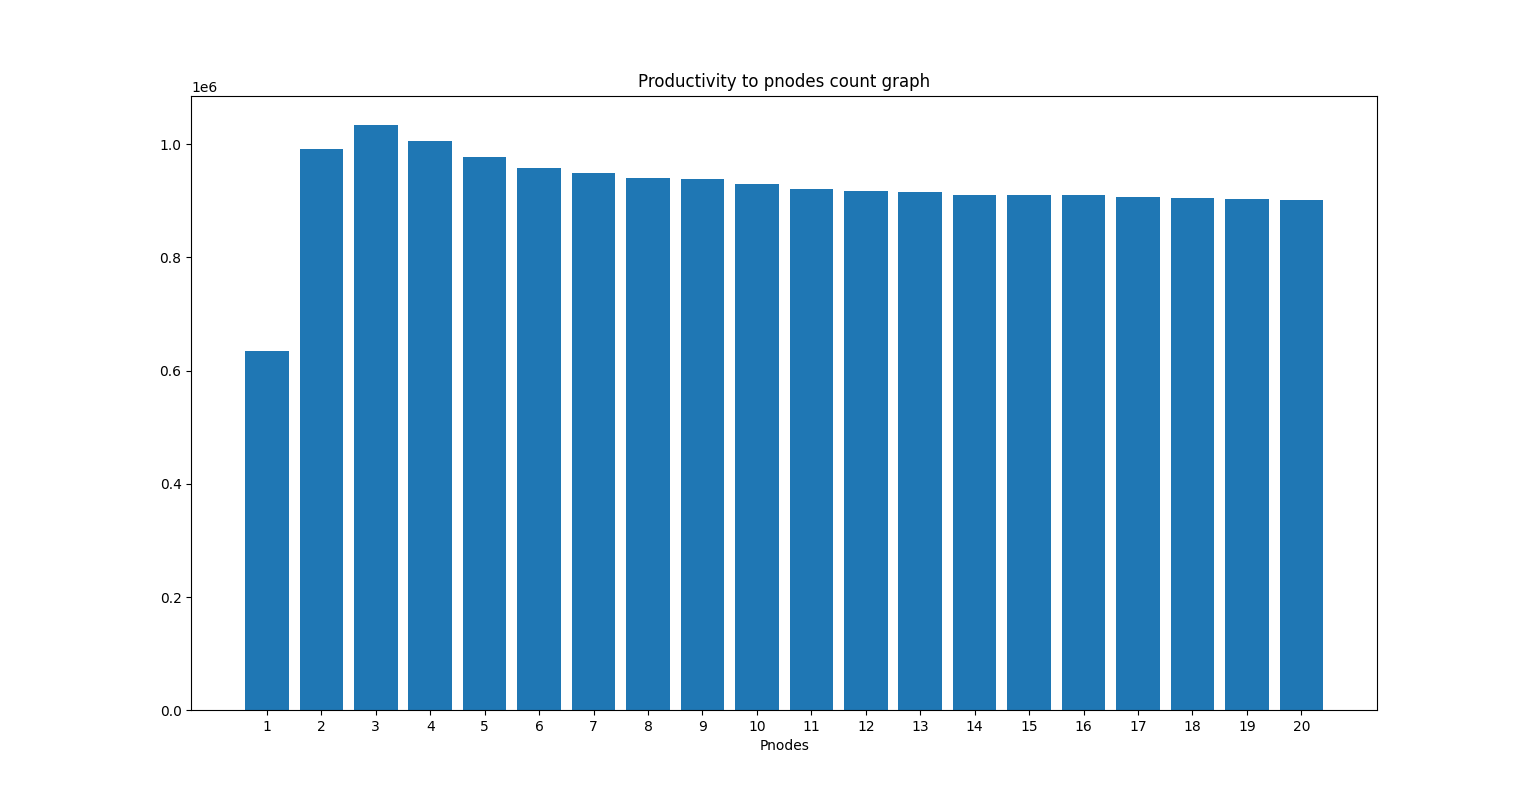
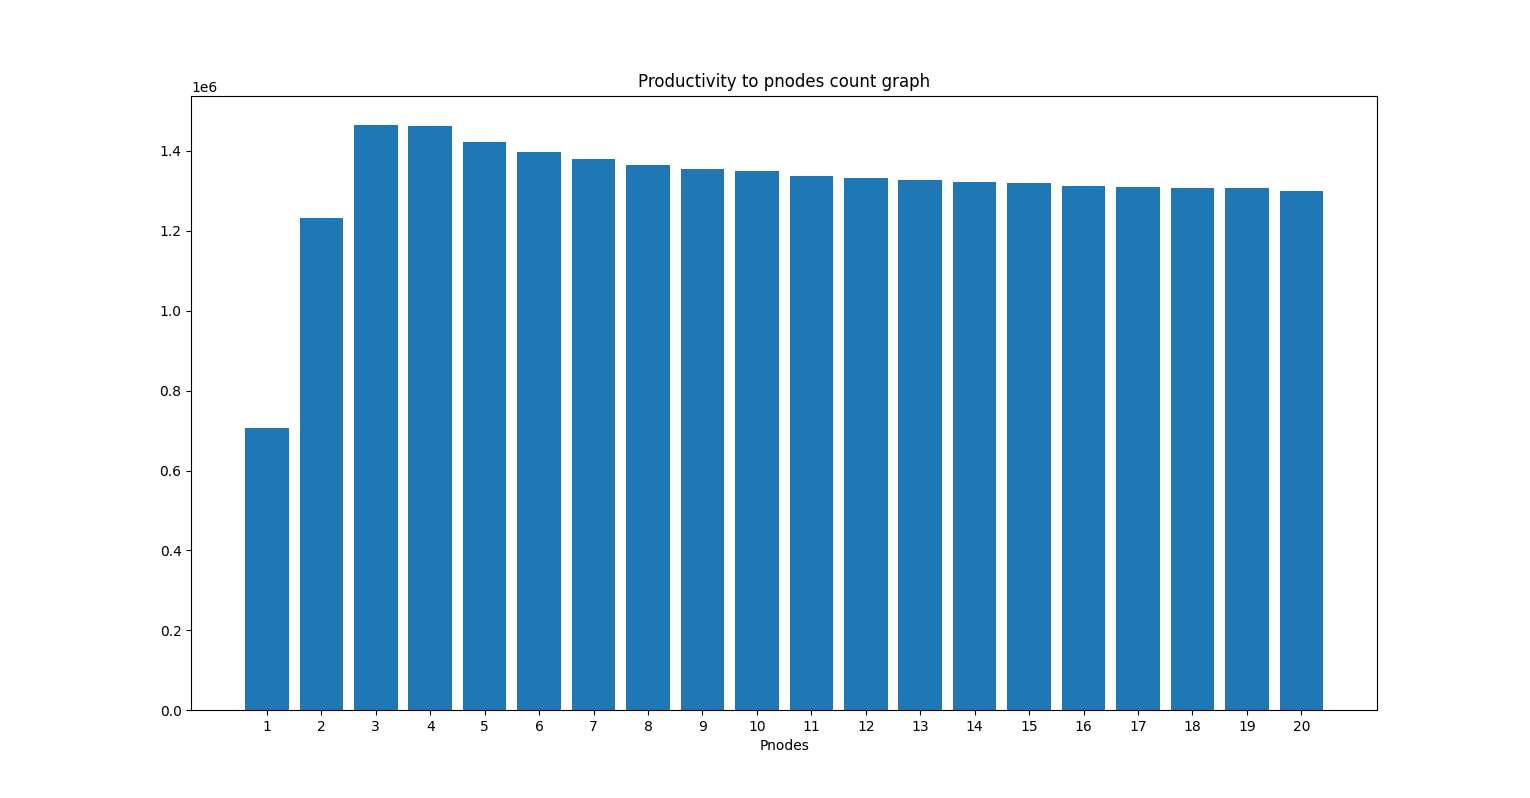
some fixes and exp rerun

diff --git a/model.py b/model.py
@@ -87,7 +87,6 @@ class Processor:
         elif message.type == 1:
             yield self.env.timeout(1)
             self.directory[self.write_address] = 1
-            yield self.env.timeout(1)
             self.cache.write(self.write_address)
             self.write_address = None
 
@@ -104,6 +103,7 @@ class Processor:
             yield self.env.process(self.handle_messages())
             yield self.env.timeout(1)
             if self.directory[address] == 1:
+                yield self.env.timeout(1)
                 yield self.env.process(self.cache.read(address))
             else:
                 yield self.env.process(self.mailbox.send_message(Message(2, address)))
@@ -112,6 +112,7 @@ class Processor:
                     yield self.env.timeout(1)
                     if not self.mailbox.empty():
                         yield self.env.process(self.handle_message(self.mailbox.get_message()))
+                    self.env.timeout(1)
         else:
             messages = self.mailbox.get_messages()
             yield self.env.process(self.mailbox.send_message(Message(0, address)))
@@ -152,7 +153,6 @@ class PostOffice:
 
     def get_front_message(self):
         #print('postoffice.get_front_message')
-        yield self.env.timeout(1)
         mailbox_id, msg = self.queue.pop(0)
         self.input_messages[mailbox_id].pop(0)
         #print('postoffice.get_front_message results:', mailbox_id, msg)
@@ -160,7 +160,6 @@ class PostOffice:
 
     def get_message(self, mailbox_id):
         #print('postoffice.get_message, id', mailbox_id)
-        yield self.env.timeout(1)
         return mailbox_id, self.input_messages[mailbox_id].pop(0)
 
     def send_messages(self, recipients, msg):
@@ -184,7 +183,6 @@ class DirectoryProcessor:
         self.write_address = None
         self.write_id = None # Used in handling write messages
         self.env = env
-
 
     def handle_invalidate(self, node_id, msg):
         #print('dnode.handle_invalidate, id', node_id)
@@ -229,10 +227,10 @@ class DirectoryProcessor:
                 # By doing this we also make sure that there is no read request from other node
                 # handled with invalid data.
                 if self.write_address is not None:
-                    node_id, msg = yield self.env.process(self.post_office.get_message(self.write_id))
+                    node_id, msg = self.post_office.get_message(self.write_id)
                     #print('write address not none, node_id', node_id)
                 else:
-                    node_id, msg = yield self.env.process(self.post_office.get_front_message())
+                    node_id, msg = self.post_office.get_front_message()
                     #print('write address none, node_id', node_id)
                 #print('dnode msg type', msg.type)
                 yield self.env.timeout(1)
@@ -283,6 +281,7 @@ def run(pnodes_cnt, cache_size, read_time, write_time, until):
     instructions_per_node = total_instructions / pnodes_cnt
     print('instructionx per processing node', instructions_per_node)
     return total_instructions
+
 
 if __name__ == '__main__':
     run(pnodes_cnt=15, cache_size=500, read_time=5, write_time=10, until=10000)

diff --git a/experiment.py b/experiment.py
@@ -44,8 +44,8 @@ if __name__ == '__main__':
     pnodesMax = 20
     pnodes = [x + 1 for x in range(pnodesMax)]
     cache_size = 4000
-    read_time = 2
-    write_time = 5
+    read_time = 1
+    write_time = 2
     until = 1000 * 1000
     reruns = 3
 
